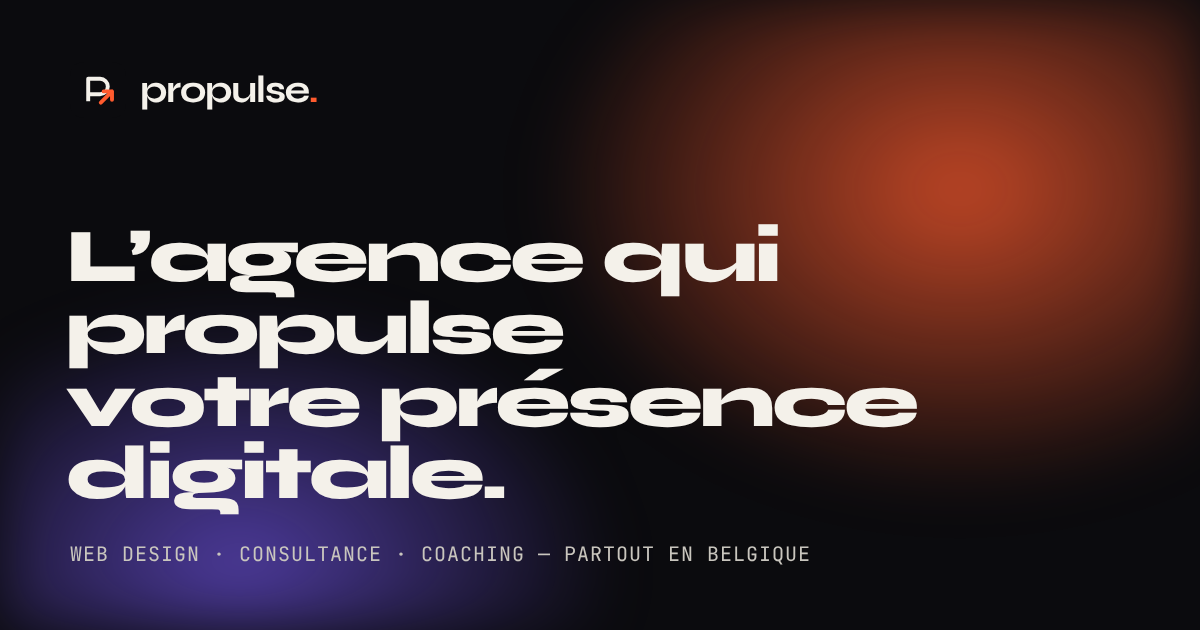
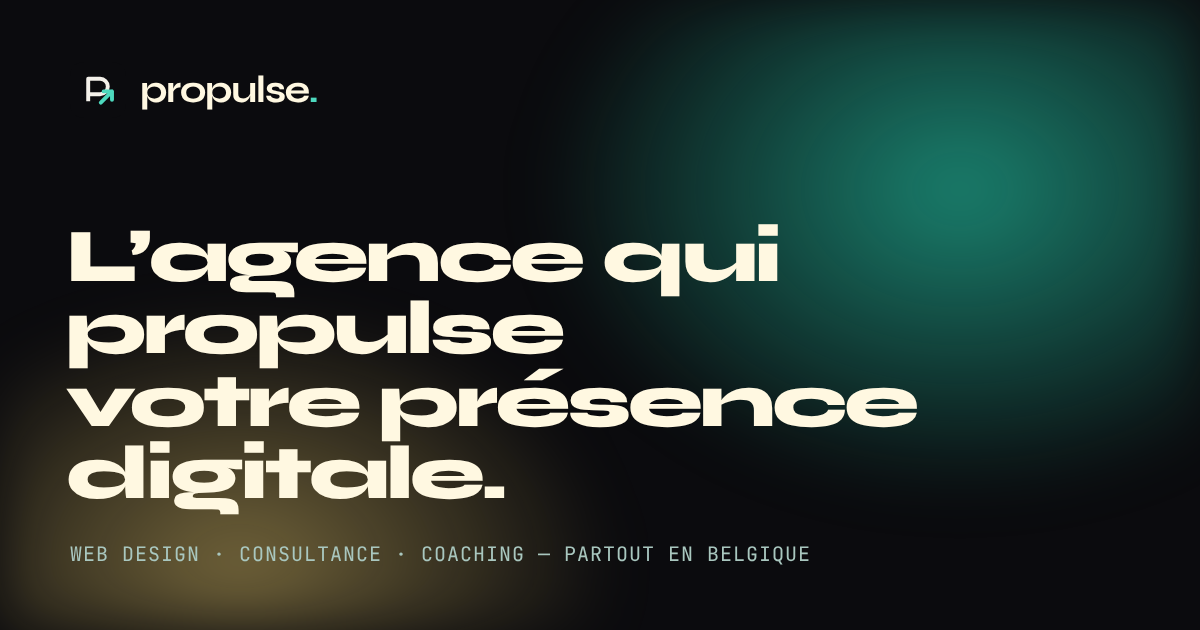
Couleurs de la charte ProPulse : vert canard et jaune sur fond noir

diff --git a/Propulse-Agency-Test/src/assets/css/main.css b/Propulse-Agency-Test/src/assets/css/main.css
@@ -39,17 +39,19 @@
 
 :root {
   --bg: #0B0B0E;
-  --bg-2: #121217;
-  --bg-3: #1A1A21;
-  --fg: #F4F1EA;
-  --fg-2: #C9C6BE;
-  --muted: #8F8C96;
-  --line: rgba(244, 241, 234, 0.12);
-  --line-strong: rgba(244, 241, 234, 0.24);
-  --accent: #FF5B2E;
-  --accent-ink: #120804;
-  --violet: #7B5CFF;
-  --lime: #D8FF5C;
+  --bg-2: #0E1413;
+  --bg-3: #151E1C;
+  --fg: #FFF8E1;
+  --fg-2: #D3E2DD;
+  --muted: #A9C7BF;
+  --line: rgba(255, 248, 225, 0.12);
+  --line-strong: rgba(255, 248, 225, 0.24);
+  --accent: #4DD9BE;
+  --accent-ink: #04211D;
+  --yellow: #FFDA00;
+  --lime: #F3D371;
+  --teal-deep: #0B3D39;
+  --teal-btn: #12806C;
 
   --f-display: 'Syne', 'Arial Black', sans-serif;
   --f-body: 'Manrope', system-ui, -apple-system, 'Segoe UI', sans-serif;
@@ -109,12 +111,12 @@ em { font-style: normal; }
 .container { width: 100%; max-width: var(--maxw); margin-inline: auto; padding-inline: var(--gutter); }
 .mono { font-family: var(--f-mono); font-size: 0.78rem; letter-spacing: 0.04em; text-transform: uppercase; }
 
-.eyebrow { display: inline-flex; align-items: center; gap: 10px; color: var(--muted); }
+.eyebrow { display: inline-flex; align-items: center; gap: 10px; color: var(--accent); }
 .dot {
   width: 8px; height: 8px; border-radius: 50%; background: var(--accent);
-  box-shadow: 0 0 0 0 rgba(255, 91, 46, .6); animation: pulse 2.2s infinite;
+  box-shadow: 0 0 0 0 rgba(77, 217, 190, .6); animation: pulse 2.2s infinite;
 }
-@keyframes pulse { 70% { box-shadow: 0 0 0 10px rgba(255, 91, 46, 0); } 100% { box-shadow: 0 0 0 0 rgba(255, 91, 46, 0); } }
+@keyframes pulse { 70% { box-shadow: 0 0 0 10px rgba(77, 217, 190, 0); } 100% { box-shadow: 0 0 0 0 rgba(77, 217, 190, 0); } }
 
 .h2 {
   font-family: var(--f-display); font-weight: 700; letter-spacing: -0.035em; line-height: 0.98;
@@ -123,7 +125,7 @@ em { font-style: normal; }
 .h2 em, .page-hero__title em, .footer__title em, .case-hero__title em {
   font-family: var(--f-display); font-style: normal; color: transparent;
   -webkit-text-stroke: 1.5px var(--fg);
-  background: linear-gradient(100deg, var(--accent), var(--violet)) text;
+  background: linear-gradient(100deg, var(--accent), var(--yellow)) text;
   -webkit-background-clip: text;
   background-clip: text;
   -webkit-text-stroke: 0;
@@ -198,7 +200,7 @@ em { font-style: normal; }
 /* ---------- Transition de page ---------- */
 .transition { position: fixed; inset: 0; z-index: 110; display: flex; pointer-events: none; }
 .transition__panel { flex: 1; background: var(--accent); transform: scaleY(0); transform-origin: bottom; }
-.transition__panel:nth-child(2n) { background: #F06A3F; }
+.transition__panel:nth-child(2n) { background: #1FA98F; }
 .transition__panel:nth-child(3) { background: var(--fg); }
 
 /* ---------- Curseur ---------- */
@@ -207,12 +209,12 @@ em { font-style: normal; }
 .cursor__dot, .cursor__ring { position: fixed; top: 0; left: 0; border-radius: 50%; will-change: transform; }
 .cursor__dot { width: 8px; height: 8px; margin: -4px 0 0 -4px; background: var(--accent); transition: opacity .3s, width .3s, height .3s; }
 .cursor__ring {
-  width: 44px; height: 44px; margin: -22px 0 0 -22px; border: 1px solid rgba(244, 241, 234, .5);
+  width: 44px; height: 44px; margin: -22px 0 0 -22px; border: 1px solid rgba(255, 248, 225, .5);
   display: grid; place-items: center;
   transition: width .45s var(--ease), height .45s var(--ease), margin .45s var(--ease), background-color .45s var(--ease), border-color .45s, opacity .3s;
 }
 .cursor__label { font-family: var(--f-mono); font-size: 11px; text-transform: uppercase; letter-spacing: .06em; color: var(--accent-ink); opacity: 0; transform: scale(.6); transition: opacity .3s, transform .45s var(--ease); }
-.cursor.is-hover .cursor__ring { width: 70px; height: 70px; margin: -35px 0 0 -35px; border-color: var(--accent); background: rgba(255, 91, 46, .08); }
+.cursor.is-hover .cursor__ring { width: 70px; height: 70px; margin: -35px 0 0 -35px; border-color: var(--accent); background: rgba(77, 217, 190, .08); }
 .cursor.is-label .cursor__ring { width: 96px; height: 96px; margin: -48px 0 0 -48px; background: var(--accent); border-color: var(--accent); }
 .cursor.is-label .cursor__label { opacity: 1; transform: none; }
 .cursor.is-label .cursor__dot, .cursor.is-hidden .cursor__dot, .cursor.is-hidden .cursor__ring { opacity: 0; }
@@ -231,7 +233,7 @@ em { font-style: normal; }
   60% { transform: translate(-3%, 7%); } 80% { transform: translate(6%, -2%); }
 }
 .scroll-progress { position: fixed; top: 0; left: 0; right: 0; height: 2px; z-index: 95; pointer-events: none; }
-.scroll-progress span { display: block; height: 100%; background: linear-gradient(90deg, var(--accent), var(--violet)); transform: scaleX(0); transform-origin: left; }
+.scroll-progress span { display: block; height: 100%; background: linear-gradient(90deg, var(--accent), var(--yellow)); transform: scaleX(0); transform-origin: left; }
 
 /* ---------- En-tête ---------- */
 .header {
@@ -289,14 +291,14 @@ em { font-style: normal; }
 .hero__gl, .hero__fallback { position: absolute; inset: 0; width: 100%; height: 100%; }
 .hero__fallback {
   background:
-    radial-gradient(60% 60% at 75% 30%, rgba(255, 91, 46, .45), transparent 70%),
-    radial-gradient(50% 50% at 20% 80%, rgba(123, 92, 255, .4), transparent 70%), var(--bg);
+    radial-gradient(60% 60% at 75% 30%, rgba(77, 217, 190, .45), transparent 70%),
+    radial-gradient(50% 50% at 20% 80%, rgba(243, 211, 113, .4), transparent 70%), var(--bg);
   filter: blur(10px);
 }
 .hero.gl-ready .hero__fallback { opacity: 0; transition: opacity 1.2s; }
 .hero::after { content: ''; position: absolute; inset: auto 0 0; height: 30%; background: linear-gradient(transparent, var(--bg)); pointer-events: none; }
 .hero__content { position: relative; z-index: 2; padding-bottom: clamp(30px, 5vh, 60px); }
-.hero__eyebrow { margin-bottom: clamp(18px, 3vh, 36px); color: var(--fg-2); }
+.hero__eyebrow { margin-bottom: clamp(18px, 3vh, 36px); color: var(--accent); }
 .hero__title {
   font-family: var(--f-display); font-weight: 800; letter-spacing: -0.055em; line-height: .92;
   font-size: clamp(2.4rem, 7.2vw, 8.6rem);
@@ -305,11 +307,11 @@ em { font-style: normal; }
 .hero__outline { color: transparent; -webkit-text-stroke: 1.5px var(--fg); }
 .hero__pill {
   display: inline-block; vertical-align: middle; width: 1.9em; height: .78em; border-radius: 999px;
-  background: linear-gradient(120deg, var(--accent), var(--violet)); position: relative; overflow: hidden; transform: translateY(-.06em);
+  background: linear-gradient(120deg, var(--accent), var(--yellow)); position: relative; overflow: hidden; transform: translateY(-.06em);
 }
 .hero__pill-inner { position: absolute; inset: 12%; left: 8%; width: .56em; height: auto; aspect-ratio: 1; border-radius: 50%; background: var(--fg); animation: pill 3.6s var(--ease-in-out) infinite; }
 @keyframes pill { 0%, 100% { left: 8%; } 50% { left: calc(92% - .56em); } }
-.rotator { display: inline-block; height: 1em; overflow: hidden; vertical-align: bottom; color: var(--accent); }
+.rotator { display: inline-block; height: 1em; overflow: hidden; vertical-align: bottom; color: var(--yellow); }
 .rotator__track { display: flex; flex-direction: column; animation: rotate-words 10s var(--ease-in-out) infinite; }
 .rotator__track span { display: block; height: 1em; line-height: 1; }
 @keyframes rotate-words {
@@ -393,8 +395,8 @@ em { font-style: normal; }
   box-shadow: 0 -20px 60px rgba(0, 0, 0, .35);
   transform-origin: center top;
 }
-.stack__card:nth-child(2) { background: linear-gradient(160deg, #24161a, #16121a); }
-.stack__card:nth-child(3) { background: linear-gradient(160deg, #1b1830, #120f22); }
+.stack__card:nth-child(2) { background: linear-gradient(160deg, #0F2824, #0B1816); }
+.stack__card:nth-child(3) { background: linear-gradient(160deg, #24210F, #16140A); }
 .stack__card:last-child { background: var(--accent); color: var(--accent-ink); border-color: transparent; }
 .stack__card:last-child p, .stack__card:last-child .stack__tag { color: var(--accent-ink); }
 .stack__num { font-family: var(--f-display); font-weight: 800; font-size: clamp(3.6rem, 9vw, 8rem); line-height: .8; letter-spacing: -0.06em; color: transparent; -webkit-text-stroke: 1.5px currentColor; }
@@ -421,7 +423,7 @@ em { font-style: normal; }
 [data-spotlight] { --mx: 50%; --my: 50%; }
 [data-spotlight]::before {
   content: ''; position: absolute; inset: 0; pointer-events: none; opacity: 0; transition: opacity .4s;
-  background: radial-gradient(420px circle at var(--mx) var(--my), rgba(255, 91, 46, .22), transparent 60%);
+  background: radial-gradient(420px circle at var(--mx) var(--my), rgba(77, 217, 190, .22), transparent 60%);
 }
 [data-spotlight]::after {
   content: ''; position: absolute; inset: 0; border-radius: inherit; pointer-events: none; padding: 1px; opacity: 0; transition: opacity .4s;
@@ -442,7 +444,7 @@ em { font-style: normal; }
 .devices { position: relative; height: 120px; }
 .devices span { position: absolute; bottom: 0; border: 1.5px solid var(--fg-2); border-radius: 10px; transition: transform .7s var(--ease); }
 .devices__desk { left: 0; width: 62%; height: 100px; }
-.devices__desk::after { content: ''; position: absolute; inset: 10px; border-radius: 4px; background: linear-gradient(135deg, var(--accent), var(--violet)); opacity: .7; }
+.devices__desk::after { content: ''; position: absolute; inset: 10px; border-radius: 4px; background: linear-gradient(135deg, var(--accent), var(--yellow)); opacity: .7; }
 .devices__tab { left: 52%; width: 30%; height: 84px; background: var(--bg-2); }
 .devices__phone { left: 78%; width: 16%; height: 62px; background: var(--bg-2); border-color: var(--accent) !important; }
 .bento__cell--theme:hover .devices__desk { transform: translateX(-6px); }
@@ -494,7 +496,7 @@ em { font-style: normal; }
 .footer__giant span {
   display: block; text-align: center; font-family: var(--f-display); font-weight: 800; letter-spacing: -0.07em;
   font-size: 23.5vw; color: transparent; -webkit-text-stroke: 1px var(--line-strong);
-  background: linear-gradient(180deg, rgba(255, 91, 46, .35), transparent 75%) text; -webkit-background-clip: text; background-clip: text;
+  background: linear-gradient(180deg, rgba(77, 217, 190, .35), transparent 75%) text; -webkit-background-clip: text; background-clip: text;
   transform: translateY(12%);
 }
 .footer__legal {
@@ -508,7 +510,7 @@ em { font-style: normal; }
 /* ---------- Bandeau cookies ---------- */
 .cookies {
   position: fixed; z-index: 105; left: 16px; bottom: 16px; width: min(480px, calc(100% - 32px));
-  padding: 24px; border-radius: var(--radius); background: rgba(26, 26, 33, .92); border: 1px solid var(--line-strong);
+  padding: 24px; border-radius: var(--radius); background: rgba(18, 27, 25, .92); border: 1px solid var(--line-strong);
   -webkit-backdrop-filter: blur(18px); backdrop-filter: blur(18px); box-shadow: 0 30px 80px rgba(0, 0, 0, .5);
   max-height: calc(100svh - 32px); overflow-y: auto;
 }
@@ -539,7 +541,7 @@ em { font-style: normal; }
 .page-hero { padding-top: calc(var(--header-h) + clamp(60px, 10vw, 140px)); padding-bottom: clamp(50px, 7vw, 100px); position: relative; }
 .page-hero::before {
   content: ''; position: absolute; z-index: -1; top: -20%; right: -10%; width: 60vw; height: 60vw; max-width: 900px; max-height: 900px;
-  background: radial-gradient(circle, rgba(255, 91, 46, .18), rgba(123, 92, 255, .12) 40%, transparent 70%); filter: blur(40px); pointer-events: none;
+  background: radial-gradient(circle, rgba(77, 217, 190, .18), rgba(243, 211, 113, .12) 40%, transparent 70%); filter: blur(40px); pointer-events: none;
 }
 .page-hero__title { overflow-wrap: break-word; margin-top: 26px; font-family: var(--f-display); font-weight: 800; font-size: clamp(3rem, 9vw, 9.6rem); letter-spacing: -0.055em; line-height: .92; }
 .page-hero__foot { display: flex; justify-content: space-between; align-items: flex-end; gap: 40px; margin-top: clamp(30px, 5vw, 70px); }
@@ -559,13 +561,13 @@ em { font-style: normal; }
 .orbit__ring i { position: absolute; top: -7px; left: 50%; width: 14px; height: 14px; margin-left: -7px; border-radius: 50%; background: var(--accent); box-shadow: 0 0 24px var(--accent); }
 .orbit__ring--1 { inset: 0; animation-duration: 24s; }
 .orbit__ring--2 { inset: 16%; animation-duration: 16s; animation-direction: reverse; }
-.orbit__ring--2 i { background: var(--violet); box-shadow: 0 0 24px var(--violet); }
+.orbit__ring--2 i { background: var(--yellow); box-shadow: 0 0 24px var(--yellow); }
 .orbit__ring--3 { inset: 32%; animation-duration: 10s; }
 .orbit__ring--3 i { background: var(--lime); box-shadow: 0 0 24px var(--lime); width: 10px; height: 10px; top: -5px; margin-left: -5px; }
 .orbit__core {
   width: 22%; aspect-ratio: 1; border-radius: 50%; display: grid; place-items: center;
-  background: linear-gradient(135deg, var(--accent), var(--violet)); font-family: var(--f-display); font-weight: 800; font-size: clamp(2rem, 5vw, 3.6rem); color: var(--fg);
-  box-shadow: 0 0 80px rgba(255, 91, 46, .45);
+  background: linear-gradient(135deg, #12806C, #1FA98F); font-family: var(--f-display); font-weight: 800; font-size: clamp(2rem, 5vw, 3.6rem); color: var(--fg);
+  box-shadow: 0 0 80px rgba(77, 217, 190, .45);
 }
 
 /* Contact */
@@ -659,7 +661,7 @@ tr:last-child td { border-bottom: 0; }
 .notfound__title { position: relative; font-family: var(--f-display); font-weight: 800; font-size: clamp(8rem, 30vw, 24rem); line-height: .8; letter-spacing: -0.06em; }
 .notfound__title::before, .notfound__title::after { content: attr(data-glitch); position: absolute; inset: 0; mix-blend-mode: screen; }
 .notfound__title::before { color: var(--accent); animation: glitch 2.4s infinite steps(1); }
-.notfound__title::after { color: var(--violet); animation: glitch 2.4s infinite steps(1) reverse; }
+.notfound__title::after { color: var(--yellow); animation: glitch 2.4s infinite steps(1) reverse; }
 @keyframes glitch {
   0%, 100% { transform: translate(0); clip-path: inset(0 0 0 0); }
   10% { transform: translate(-6px, 2px); clip-path: inset(10% 0 60% 0); }
@@ -739,7 +741,7 @@ tr:last-child td { border-bottom: 0; }
 
 /* ---------- Page unique : compléments ---------- */
 section[id] { scroll-margin-top: var(--header-h); }
-.hero__slogan { font-family: var(--f-display); font-weight: 700; font-size: clamp(1.2rem, 1.8vw, 1.6rem); letter-spacing: -0.02em; margin-bottom: 12px; color: var(--fg); }
+.hero__slogan { font-family: var(--f-display); font-weight: 700; font-size: clamp(1.2rem, 1.8vw, 1.6rem); letter-spacing: -0.02em; margin-bottom: 12px; color: var(--yellow); }
 .hero__bottom > div:first-child { max-width: 520px; }
 .srv__cta { display: block; margin-top: 10px; font-weight: 700; color: var(--accent); transition: color .3s; }
 .srv a:hover .srv__cta, .srv a:focus-visible .srv__cta { color: var(--accent-ink); }
@@ -758,7 +760,7 @@ section[id] { scroll-margin-top: var(--header-h); }
 .orbit__core { width: 38%; text-align: center; font-size: clamp(.8rem, 1.1vw, 1rem); line-height: 1.2; font-weight: 700; }
 .orbit__core b { display: block; font-size: clamp(1.3rem, 3vw, 2.6rem); letter-spacing: -0.04em; line-height: 1; margin-bottom: 4px; }
 
-.contact-block { position: relative; padding-block: clamp(90px, 12vw, 180px); border-top: 1px solid var(--line); background: radial-gradient(60% 50% at 85% 0%, rgba(255, 91, 46, .12), transparent 70%), radial-gradient(50% 40% at 0% 100%, rgba(123, 92, 255, .1), transparent 70%); }
+.contact-block { position: relative; padding-block: clamp(90px, 12vw, 180px); border-top: 1px solid var(--line); background: radial-gradient(60% 50% at 85% 0%, rgba(77, 217, 190, .12), transparent 70%), radial-gradient(50% 40% at 0% 100%, rgba(243, 211, 113, .1), transparent 70%); }
 .contact-block__head { margin-bottom: clamp(50px, 7vw, 100px); display: grid; gap: 26px; }
 .contact-block .footer__title { font-size: clamp(2.6rem, 8vw, 8rem); }
 .contact { padding-bottom: 0; }

diff --git a/Propulse-Agency-Test/src/assets/js/gl.js b/Propulse-Agency-Test/src/assets/js/gl.js
@@ -26,14 +26,14 @@
     ' w+= (q-mm)*.18*exp(-d*3.);',
     ' float n=fbm(vec3(w*1.6,tt*1.4));',
     ' vec3 bg=vec3(.043,.043,.055);',
-    ' vec3 c1=vec3(1.,.357,.18);',
-    ' vec3 c2=vec3(.48,.36,1.);',
-    ' vec3 c3=vec3(.96,.94,.92);',
+    ' vec3 c1=vec3(.302,.851,.745);',
+    ' vec3 c2=vec3(.07,.5,.42);',
+    ' vec3 c3=vec3(1.,.855,0.);',
     ' vec3 col=bg;',
     ' float b1=smoothstep(.0,.55,n+.18-uv.y*.25);',
     ' col=mix(col,c2*.75,b1*.85);',
     ' float b2=smoothstep(.1,.6,n+.05*sin(tt*6.)+.12*exp(-d*2.5));',
-    ' col=mix(col,c1,b2*.9);',
+    ' col=mix(col,c1,b2*.75);',
     ' col+=c3*pow(max(n,0.),3.)*.35;',
     ' col+=c1*.18*exp(-d*4.);',
     ' float vig=smoothstep(1.25,.25,length(uv-vec2(.6,.55)));',
